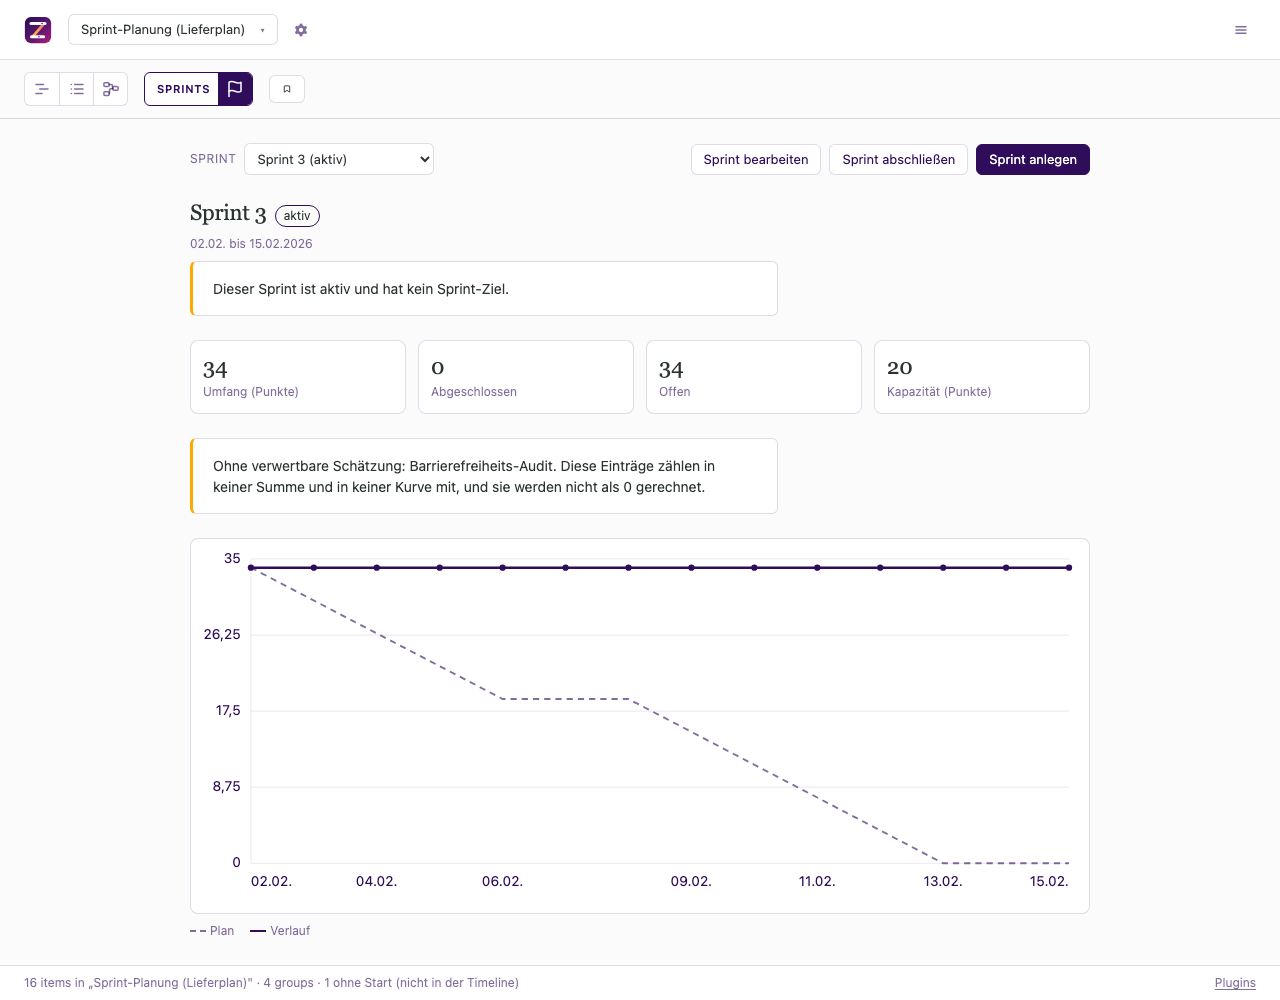
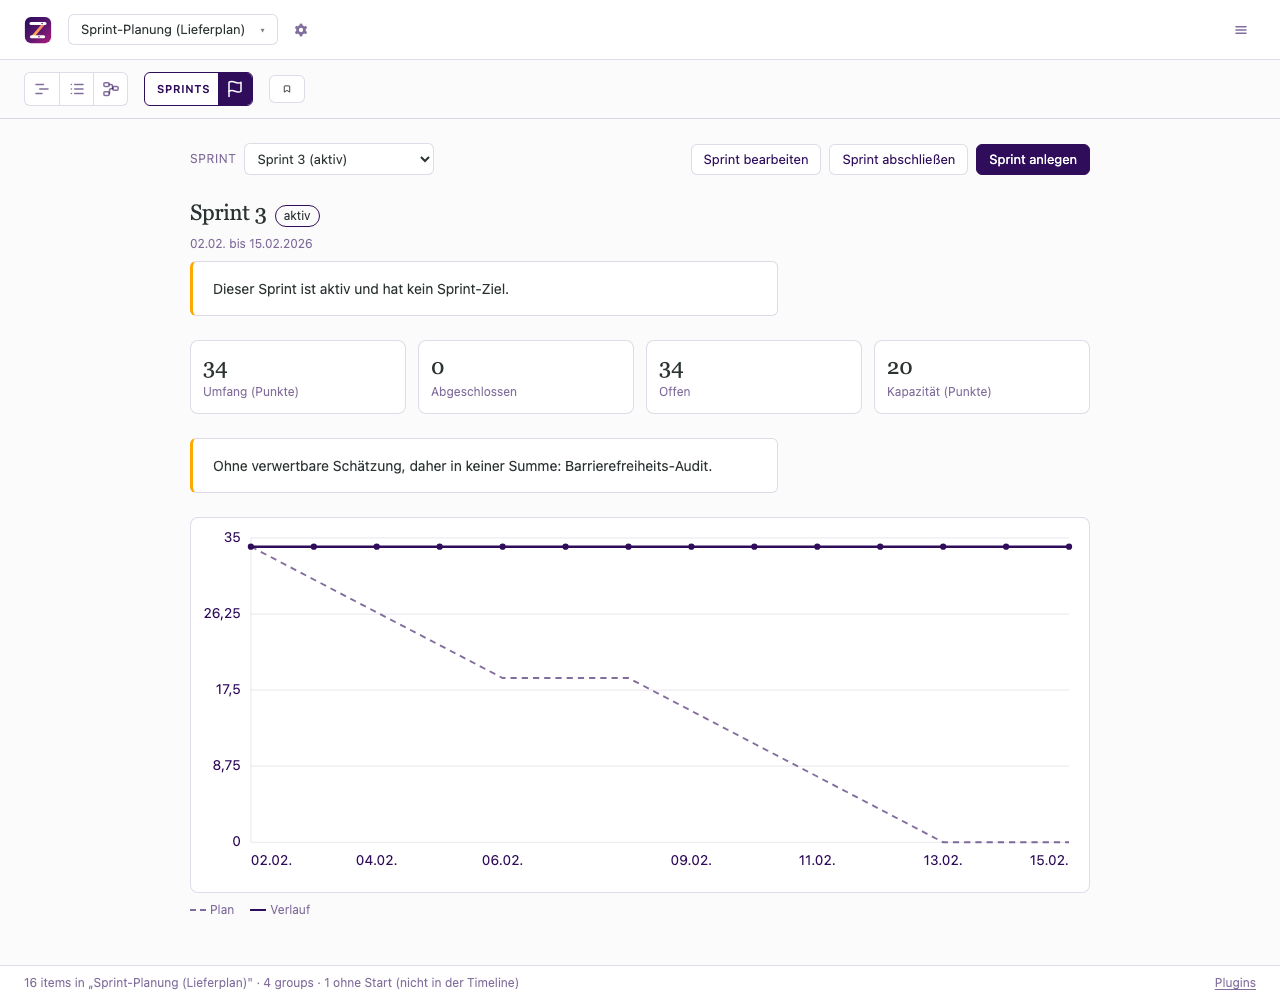
refactor(sprints): the deletion pass the interface never got
Every visible string in the view now traces to something asked for, which is the
rule the design conventions state and the one step this plugin skipped. What went
was the second sentence under a first: a caption saying „Eingefroren beim
Abschluss" followed by „Diese Kurve wird nicht neu berechnet", a warning naming
the unestimated items followed by an explanation of how sums treat them, two form
hints restating what their own labels already say.

None of it was wrong, and that is the point: it was documentation standing in the
interface, and the plugin's README is where every one of those sentences already
lives. What stays is the statement itself, because the model requires the page to
say which curve it is looking at and which windows are computed rather than
written.

diff --git a/src/plugins/sprints/index.ts b/src/plugins/sprints/index.ts
@@ -586,17 +586,14 @@ function chartBlock(
     // keeps moving afterwards, so recomputing rewrites history on every edit.
     const read = frozenSeries(days, report.series);
     actual = read.points;
-    caption =
-      `Eingefroren beim Abschluss${sprint.closedOn ? ` am ${germanDay(sprint.closedOn)}` : ''}. ` +
-      'Diese Kurve wird nicht neu berechnet.';
+    caption = `Eingefroren beim Abschluss${sprint.closedOn ? ` am ${germanDay(sprint.closedOn)}` : ''}.`;
     if (read.outside.length) {
       extras.push(
         Callout({
           tone: 'warning',
           role: 'note',
           text:
-            `Der eingefrorene Verlauf enthält Tage außerhalb des Sprintzeitraums: ${read.outside.join(', ')}. ` +
-            'Sie werden nicht gezeichnet, und sie werden auch nicht korrigiert.',
+            `Der eingefrorene Verlauf enthält Tage außerhalb des Sprintzeitraums: ${read.outside.join(', ')}.`,
         }),
       );
     }
@@ -605,23 +602,20 @@ function chartBlock(
         Callout({
           tone: 'info',
           role: 'note',
-          text: 'Zu diesem abgeschlossenen Sprint ist kein Verlauf gespeichert. Er wird nicht nachträglich berechnet.',
+          text: 'Zu diesem abgeschlossenen Sprint ist kein Verlauf gespeichert.',
         }),
       );
     }
   } else if (isPast) {
-    caption =
-      'Für diesen Sprint gibt es keinen eingefrorenen Verlauf. Ein abgeschlossener Sprint wird nicht neu berechnet, ' +
-      'deshalb bleibt die Kurve leer.';
+    caption = 'Für diesen Sprint gibt es keinen eingefrorenen Verlauf.';
   } else {
     const built = reconstructSeries(days, burndownItems(members), today());
     actual = built.points;
     caption = built.points.length
-      ? 'Rekonstruiert aus Status und Enddatum der Einträge. Für Einträge gibt es keine Änderungshistorie, ' +
-        'deshalb verändert ein verschobenes Enddatum auch den Verlauf von gestern.'
+      ? 'Rekonstruiert aus Status und Enddatum der Einträge.'
       : // Nothing is drawn before the first day, and saying „rekonstruiert" over an
         // empty plot would describe a line that is not there.
-        'Der Sprint hat noch nicht begonnen, deshalb gibt es noch keinen Verlauf. Gezeichnet ist nur der Plan.';
+        'Der Sprint hat noch nicht begonnen.';
     if (built.clampedToStart.length) {
       extras.push(
         Text({
@@ -721,15 +715,9 @@ function rowFaultText(
   warning: Extract<SprintWarning, { kind: 'duplicate-row-id' | 'several-reports-for-one-sprint' }>,
 ): string {
   if (warning.kind === 'duplicate-row-id') {
-    return (
-      `Die Id „${warning.rowId}" kommt in „${warning.collection}" mehrfach vor. ` +
-      'Gelesen wird die erste Zeile; die weiteren sind unsichtbar, nicht zusammengeführt.'
-    );
+    return `Die Id „${warning.rowId}" kommt in „${warning.collection}" mehrfach vor; gelesen wird die erste Zeile.`;
   }
-  return (
-    `Für einen Sprint liegen mehrere Berichte vor (${warning.rowIds.join(', ')}). ` +
-    'Gelesen wird der erste, die übrigen bleiben ungelesen.'
-  );
+  return `Für einen Sprint liegen mehrere Berichte vor (${warning.rowIds.join(', ')}); gelesen wird der erste.`;
 }
 
 /**
@@ -1151,7 +1139,6 @@ function editForm(sprint: Sprint): HTMLElement {
         Field({ label: 'Name', control: nameInput, full: true }),
         Field({
           label: 'Sprint-Ziel',
-          hint: 'Wofür dieser Sprint da ist. Solange er aktiv ist, ist das Ziel der Maßstab für jede Änderung am Umfang.',
           control: goalInput,
           full: true,
         }),
@@ -1162,7 +1149,6 @@ function editForm(sprint: Sprint): HTMLElement {
         Field({ label: 'Einheit', control: capacityUnitSelect }),
         Field({
           label: 'Notiz',
-          hint: 'Ergebnis aus Review und Retro, oder der Grund für einen Abbruch.',
           control: noteInput,
           full: true,
         }),
@@ -1256,8 +1242,8 @@ function emptyState(): HTMLElement {
       size: 'sm',
       tone: 'muted',
       text: canEdit()
-        ? 'Mit „Sprint anlegen" entsteht ein geplanter Sprint. Ziel, Zeitraum und Kapazität kommen danach im Formular dazu.'
-        : 'Diese Zeitleiste nimmt aus der Oberfläche keine Änderungen an. Ein Sprint entsteht dann über den MCP-Aufruf plugin_data_write, den die README dieses Plugins beschreibt.',
+        ? 'Noch kein Sprint angelegt.'
+        : 'Noch kein Sprint angelegt. Diese Zeitleiste nimmt aus der Oberfläche keine Änderungen an.',
     }),
   ]);
 }
@@ -1300,8 +1286,7 @@ function paint(into: HTMLElement): void {
         tone: 'warning',
         role: 'note',
         text:
-          `Mehrere Sprints stehen auf „aktiv": ${names.join(', ')}. ` +
-          'Eine Zeitleiste hat höchstens einen aktiven Sprint.',
+          `Mehrere Sprints stehen auf „aktiv": ${names.join(', ')}.`,
       }),
     );
   }
@@ -1318,8 +1303,7 @@ function paint(into: HTMLElement): void {
           role: 'note',
           text:
             `Die Fenster von „${a}" und „${b}" überlappen sich ` +
-            `(${germanDay(warning.overlap.start)} bis ${germanDay(warning.overlap.end)}). ` +
-            'Der Vorschlag „Sprint nach Datum" nennt für diese Tage den früheren der beiden.',
+            `(${germanDay(warning.overlap.start)} bis ${germanDay(warning.overlap.end)}).`,
         }),
       );
     } else if (warning.kind === 'closed-before-start') {
@@ -1340,7 +1324,7 @@ function paint(into: HTMLElement): void {
           role: 'note',
           text:
             `Eine Historienzeile verweist auf den Sprint „${warning.sprintId}", den es nicht gibt ` +
-            `(Eintrag „${warning.itemId}"). Die Übertragungshistorie dieses Eintrags ist damit unvollständig.`,
+            `(Eintrag „${warning.itemId}").`,
         }),
       );
     } else if (warning.kind === 'duplicate-row-id' || warning.kind === 'several-reports-for-one-sprint') {
@@ -1370,8 +1354,7 @@ function paint(into: HTMLElement): void {
           tone: 'warning',
           role: 'note',
           text:
-            `Ohne verwertbare Schätzung: ${unsized.join(', ')}. ` +
-            'Diese Einträge zählen in keiner Summe und in keiner Kurve mit, und sie werden nicht als 0 gerechnet.',
+            `Ohne verwertbare Schätzung, daher in keiner Summe: ${unsized.join(', ')}.`,
         }),
       );
     }
